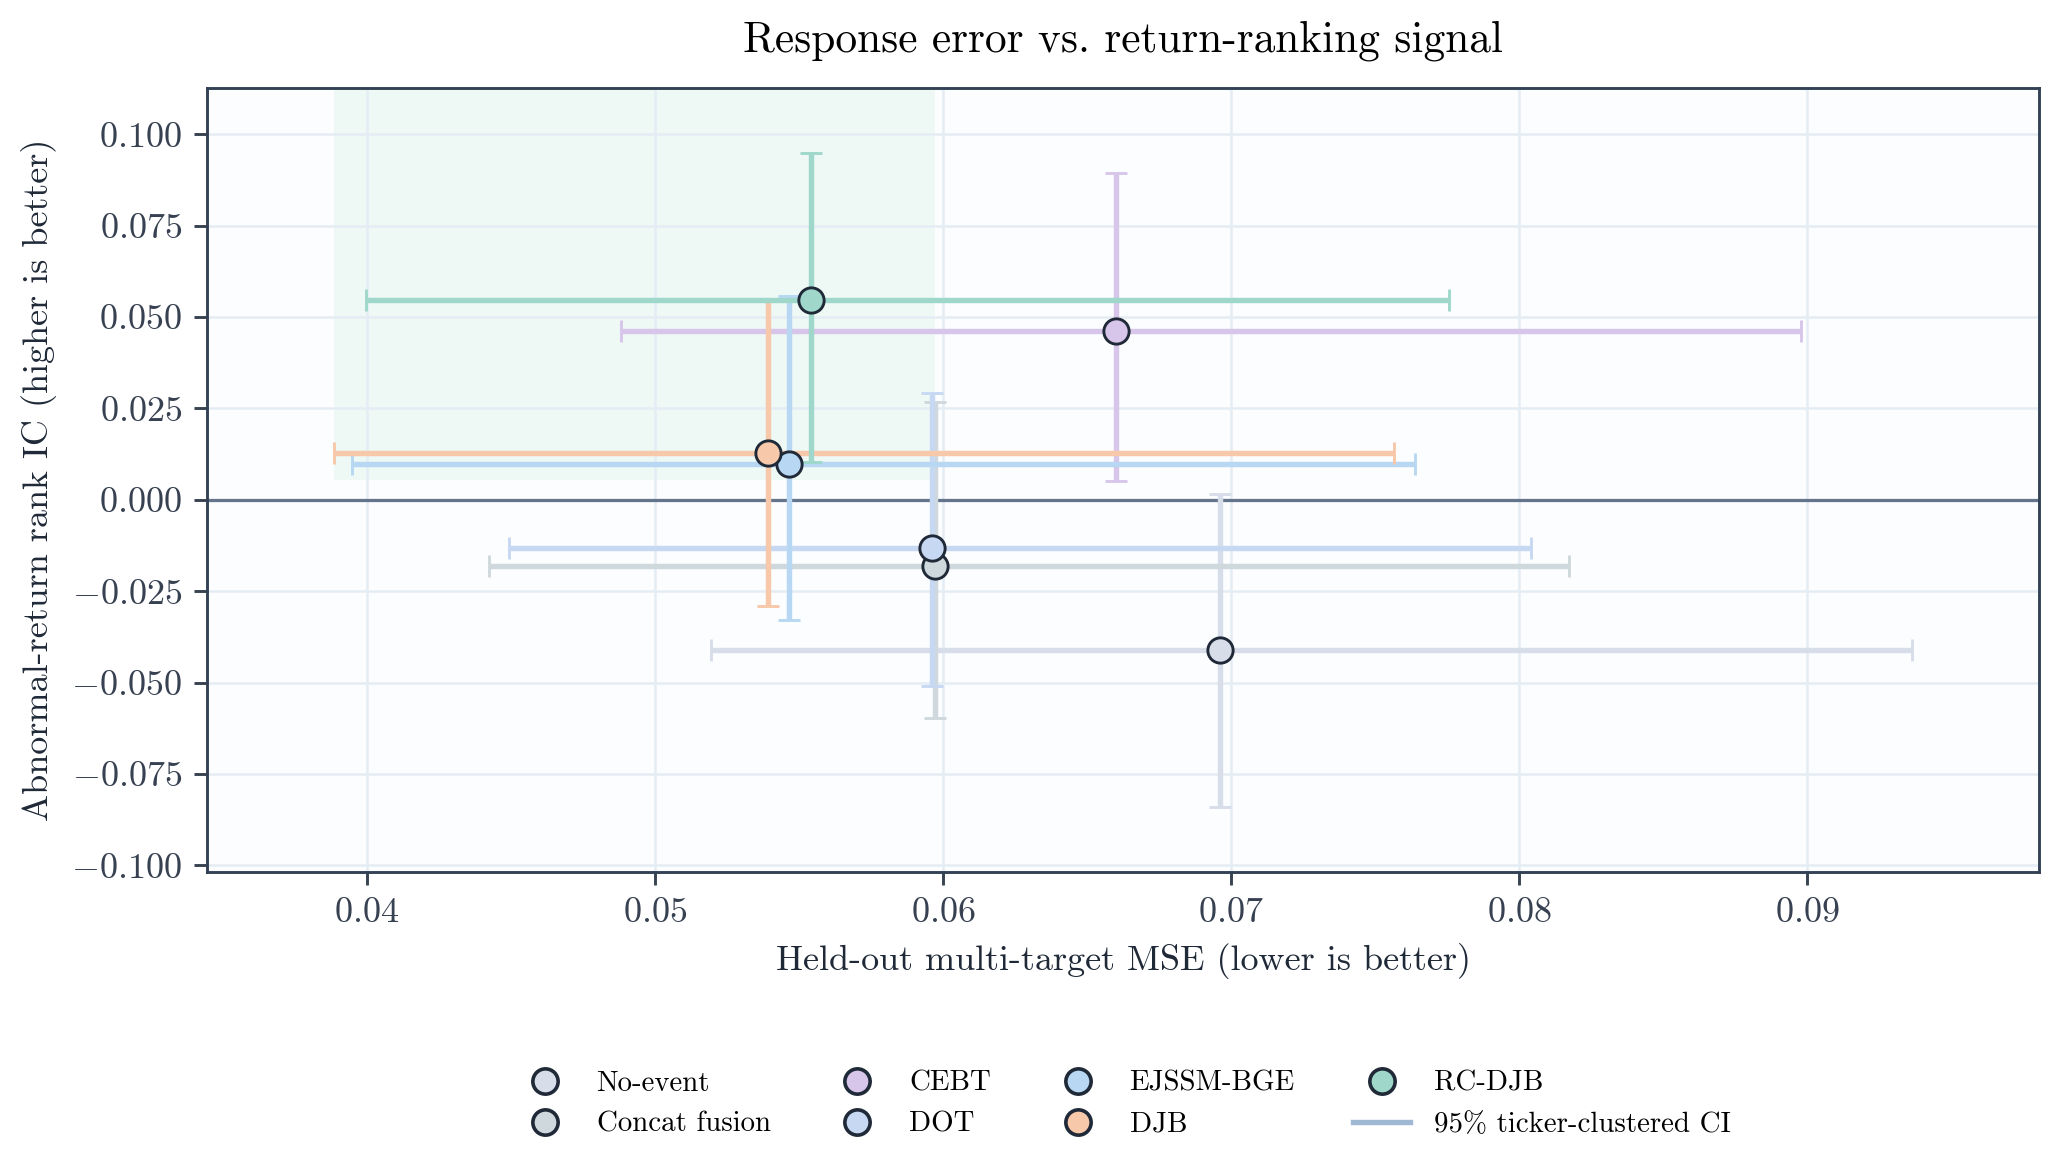
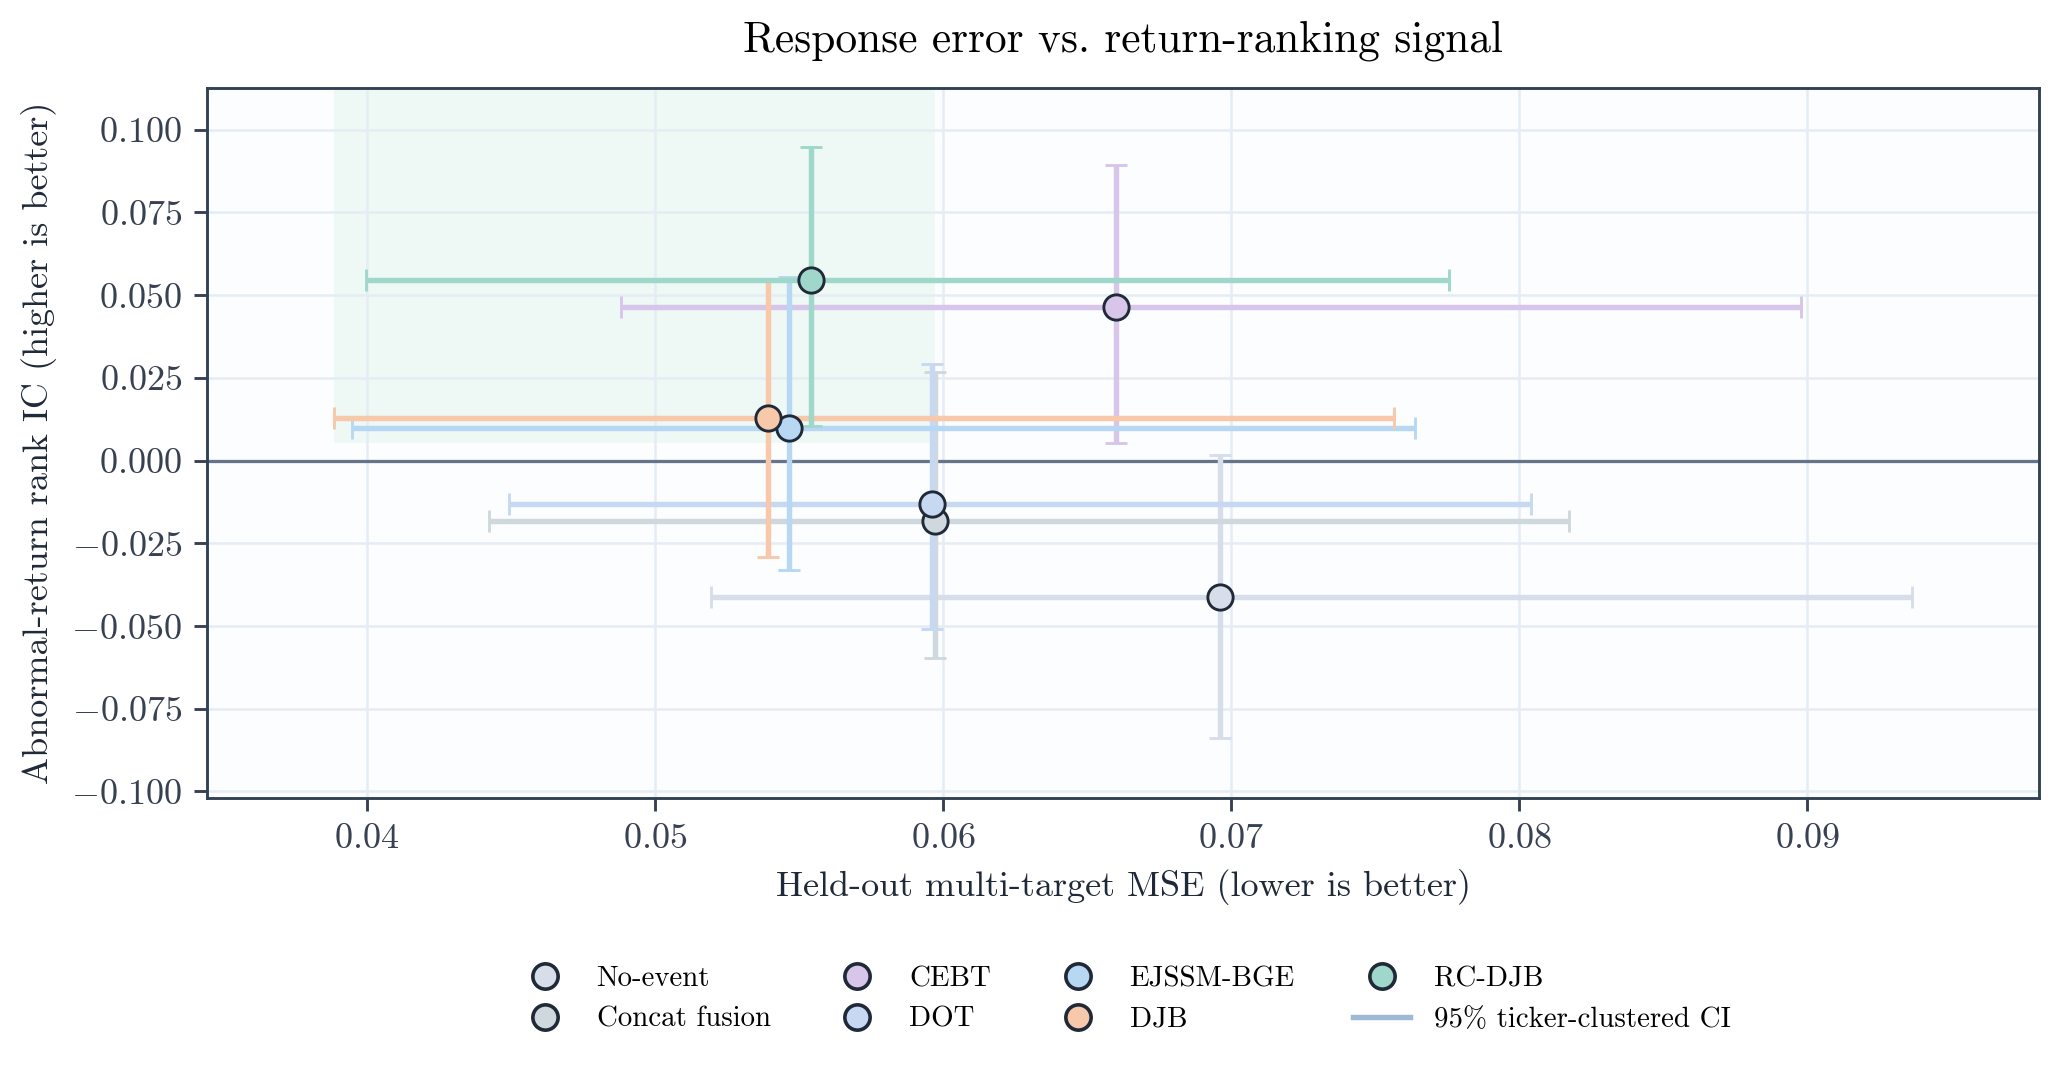
Polish paper layout spacing

diff --git a/paper/main.tex b/paper/main.tex
@@ -14,8 +14,19 @@
 \usepackage{amssymb}
 \usepackage{siunitx}
 \usepackage{xcolor}
+\usepackage{needspace}
+\usepackage{placeins}
 
 \emergencystretch=2em
+\setlength{\textfloatsep}{10pt plus 2pt minus 2pt}
+\setlength{\floatsep}{8pt plus 2pt minus 2pt}
+\setlength{\intextsep}{8pt plus 2pt minus 2pt}
+\setlength{\abovecaptionskip}{4pt}
+\setlength{\belowcaptionskip}{2pt}
+\setlength{\abovedisplayskip}{7pt plus 2pt minus 2pt}
+\setlength{\belowdisplayskip}{7pt plus 2pt minus 2pt}
+\setlength{\abovedisplayshortskip}{5pt plus 2pt minus 2pt}
+\setlength{\belowdisplayshortskip}{5pt plus 2pt minus 2pt}
 
 \hypersetup{
     colorlinks=true,
@@ -111,7 +122,7 @@ components, but the abnormal-return mean remains no-event anchored.
 
 \begin{figure}[H]
 \centering
-\includegraphics[width=\linewidth]{figures/rc_djb_architecture.pdf}
+\includegraphics[width=0.96\linewidth]{figures/rc_djb_architecture.pdf}
 \caption{RC-DJB first estimates a no-event response distribution from market history. Disclosure
 text generates a bounded bridge for risk/liquidity response and predictive uncertainty, but a
 return-mean firewall enforces \(\Delta \mu_r=0\).}
@@ -125,6 +136,7 @@ Each sample \(i\) has label start date \(\tau_i\), a 40-trading-day pre-event te
 five-trading-day SPY-adjusted return, realized-volatility jump, and volume jump. The headline
 variant uses chunk-pooled BGE-small disclosure embeddings \citep{xiao2023cpack}.
 
+\Needspace{13\baselineskip}
 \paragraph{Event-study labels.}
 Let \(P_{i,t}\), \(V_{i,t}\), and \(r_{i,t}\) denote adjusted close, volume, and daily close return
 for firm \(i\), and let \(r^M_t\) denote the SPY return. The label window
@@ -166,19 +178,16 @@ Disclosure text generates a bounded latent state jump and distributional transpo
     j_i &= \alpha \tanh(u_\theta(b_i)) \odot \sigma(v_\theta(b_i)),\\
     [\Delta \mu_i, \Delta \ell_i] &= T_\theta(\mathrm{LN}(\tilde{s}_i+j_i), b_i, m_i).
 \end{align}
-The central architectural constraint is
-\begin{equation}
-    \Delta \mu_{i,return} = 0.
-\end{equation}
-Thus,
-\begin{equation}
+The central architectural constraint is \(\Delta \mu_{i,return}=0\). Thus,
+\begin{align}
     \mu_{1,i} =
     \mu_{0,i} + [0,\Delta\mu_{i,volatility},\Delta\mu_{i,volume}],
     \qquad
     \ell_{1,i} = \mathrm{clip}(\ell_{0,i}+\Delta\ell_i).
-\end{equation}
+\end{align}
 The model predicts \(p_\theta(y_i)=\mathcal{N}(\mu_{1,i},\mathrm{diag}(\exp(\ell_{1,i})))\).
 
+\Needspace{12\baselineskip}
 \paragraph{Objective.}
 For target dimension \(k\), the Gaussian negative log likelihood used for probabilistic training
 and evaluation is
@@ -252,9 +261,9 @@ Daily prices are downloaded from public price endpoints, with SPY used as the ma
 abnormal returns. The trading calendar is inferred from observed price rows. Event label windows
 start on the same observed trading day for filings accepted before 16:00 ET; filings accepted after
 16:00 ET or on non-trading days start on the next observed trading day. Features use only prices
-strictly before the label start date. Labels use future returns only as targets. One deterministic same-ticker
-no-event control is constructed for each filing, excluding dates within a 10-calendar-day blackout
-window around known events.
+strictly before the label start date. Labels use future returns only as targets. One deterministic
+same-ticker no-event control is constructed for each filing, excluding dates within a 10-calendar-day
+blackout window around known events.
 
 \begin{table}[H]
 \centering
@@ -289,6 +298,7 @@ bootstrap resampling; ticker-clustered intervals resample tickers with replaceme
 comparisons use row-paired bootstrap resampling. Rank IC is Spearman correlation between predicted
 and realized abnormal return.
 
+\Needspace{15\baselineskip}
 \paragraph{Evaluation statistics.}
 For model \(m\), the reported multi-target error is
 \begin{equation}
@@ -353,7 +363,7 @@ Mean predictive standard deviation is
 are 95\% ticker-clustered bootstrap intervals.}
 \label{tab:main-results}
 \small
-\begin{tabular}{lrrrr}
+\begin{tabular}{lrlrl}
 \toprule
 Model & MSE & MSE CI & Rank IC & Rank IC CI \\
 \midrule
@@ -374,7 +384,7 @@ RC-DJB & 0.0554 & [0.0400, 0.0776] & \textbf{0.0546} & [0.0104, 0.0948] \\
 rank values mean RC-DJB has higher rank IC.}
 \label{tab:paired}
 \small
-\begin{tabular}{lrrrr}
+\begin{tabular}{lrlrl}
 \toprule
 Baseline & MSE Diff. & 95\% CI & Rank IC Diff. & 95\% CI \\
 \midrule
@@ -387,6 +397,7 @@ EJSSM-BGE & -0.00076 & [-0.00163, 0.00005] & 0.0447 & [-0.0072, 0.0952] \\
 \end{tabular}
 \end{table}
 
+\Needspace{8\baselineskip}
 \paragraph{Bridge diagnostics.}
 The response-transport statistic for group \(c\in\{0,1\}\) is
 \begin{equation}
@@ -417,6 +428,7 @@ Latent bridge AUC, events vs. controls & 0.6038 \\
 \end{tabular}
 \end{table}
 
+\Needspace{8\baselineskip}
 \paragraph{Intervention definitions.}
 The no-bridge intervention is the implementation's no-jump forward pass: it sets the bridge state
 jump, bridge hidden state, mean delta, and log-variance delta to zero, so \(\mu_1=\mu_0\) and
@@ -462,7 +474,7 @@ Shuffled text & 0.0081 & [0.0051, 0.0117] \\
 
 \begin{figure}[H]
 \centering
-\includegraphics[width=\linewidth]{figures/rc_djb_pareto_frontier.pdf}
+\includegraphics[width=0.94\linewidth]{figures/rc_djb_pareto_frontier.pdf}
 \caption{RC-DJB occupies a different point on the response/ranking tradeoff: EJSSM and DJB have
 lower point MSE, while RC-DJB is the only tested low-error model with a strictly positive
 ticker-clustered rank-IC interval.}
@@ -471,7 +483,7 @@ ticker-clustered rank-IC interval.}
 
 \begin{figure}[H]
 \centering
-\includegraphics[width=\linewidth]{figures/rc_djb_intervention_story.pdf}
+\includegraphics[width=0.92\linewidth]{figures/rc_djb_intervention_story.pdf}
 \caption{Interventions show that the disclosure bridge matters for event-response error. Rank IC
 does not move under text interventions because the return-mean firewall prevents direct
 text-to-return overwriting.}
@@ -480,13 +492,14 @@ text-to-return overwriting.}
 
 \begin{figure}[H]
 \centering
-\includegraphics[width=\linewidth]{figures/rc_djb_monthly_rank_heatmap.pdf}
+\includegraphics[width=0.94\linewidth]{figures/rc_djb_monthly_rank_heatmap.pdf}
 \caption{Monthly event-rank IC over held-out real 8-K rows. The model-level rank result is not
 uniform across months, but RC-DJB has a more positive held-out pattern than fusion and unconstrained
 event-mean transport baselines.}
 \label{fig:rank-heatmap}
 \end{figure}
 
+\FloatBarrier
 \section{Findings}
 
 \paragraph{Return-mean conservation recovers rank signal.}
@@ -548,7 +561,11 @@ The evidence supports a more precise architecture principle for disclosure model
 transport response risk, liquidity, and uncertainty, but keep near-term return ranking anchored to
 the no-event market state unless stronger evidence justifies crossing that boundary.
 
+\begingroup
+\footnotesize
+\setlength{\bibsep}{1pt}
 \bibliographystyle{plainnat}
 \bibliography{references}
+\endgroup
 
 \end{document}

diff --git a/scripts/80_make_rc_djb_figures.py b/scripts/80_make_rc_djb_figures.py
@@ -250,7 +250,7 @@ def make_architecture_figure(path: Path) -> None:
 def make_pareto_frontier(path: Path) -> None:
     metrics = _read_metric_table(METRICS_PATH)
     models = [model for model in MODEL_ORDER if model in metrics]
-    fig, ax = plt.subplots(figsize=(8.2, 5.2))
+    fig, ax = plt.subplots(figsize=(8.2, 4.55))
     ax.set_facecolor("#fbfdff")
     ax.grid(True, color="#e5edf4", linewidth=0.7)
     ax.axhline(0.0, color="#64748b", linewidth=0.9)
@@ -325,12 +325,12 @@ def make_pareto_frontier(path: Path) -> None:
     ax.legend(
         handles=handles,
         loc="upper center",
-        bbox_to_anchor=(0.5, -0.22),
+        bbox_to_anchor=(0.5, -0.20),
         ncol=4,
         frameon=False,
         fontsize=8,
     )
-    fig.subplots_adjust(bottom=0.30, top=0.88, left=0.12, right=0.98)
+    fig.subplots_adjust(bottom=0.28, top=0.88, left=0.12, right=0.98)
     _save(fig, path, dpi=260)
 
 